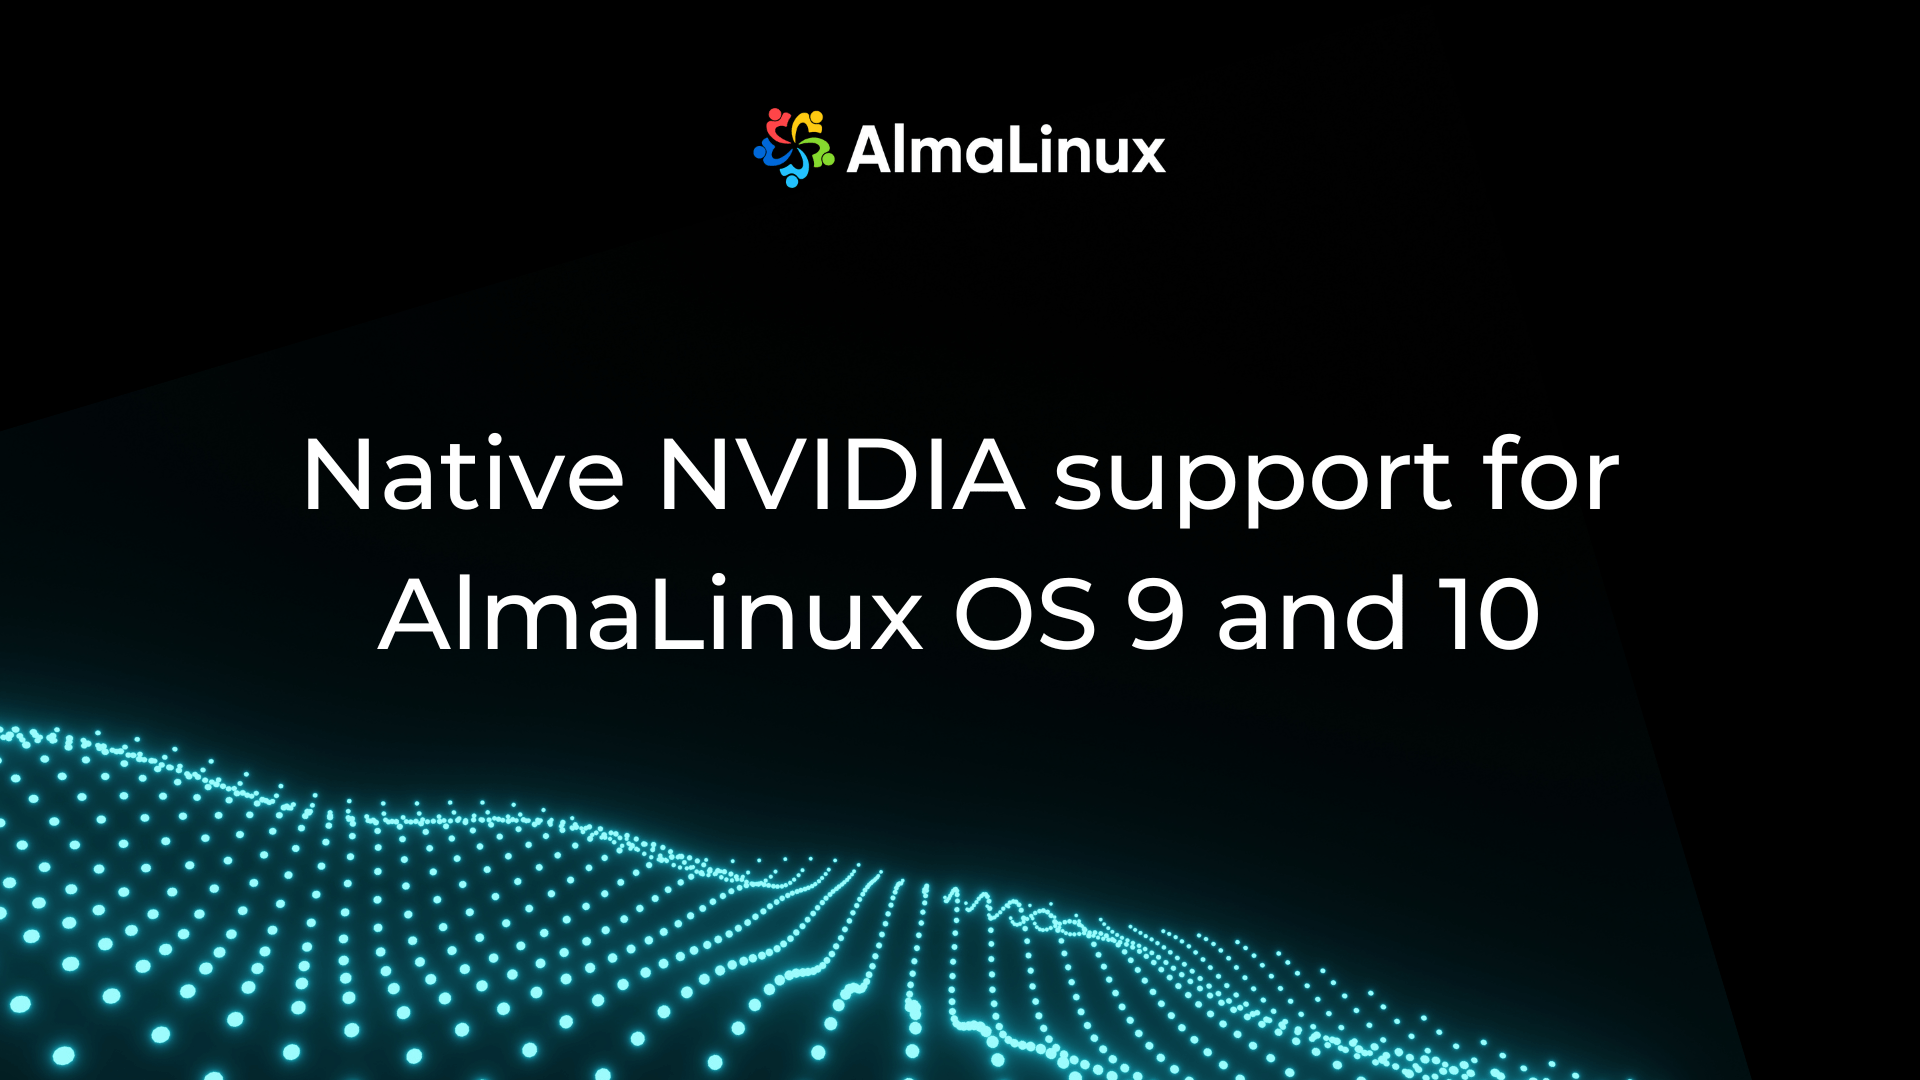
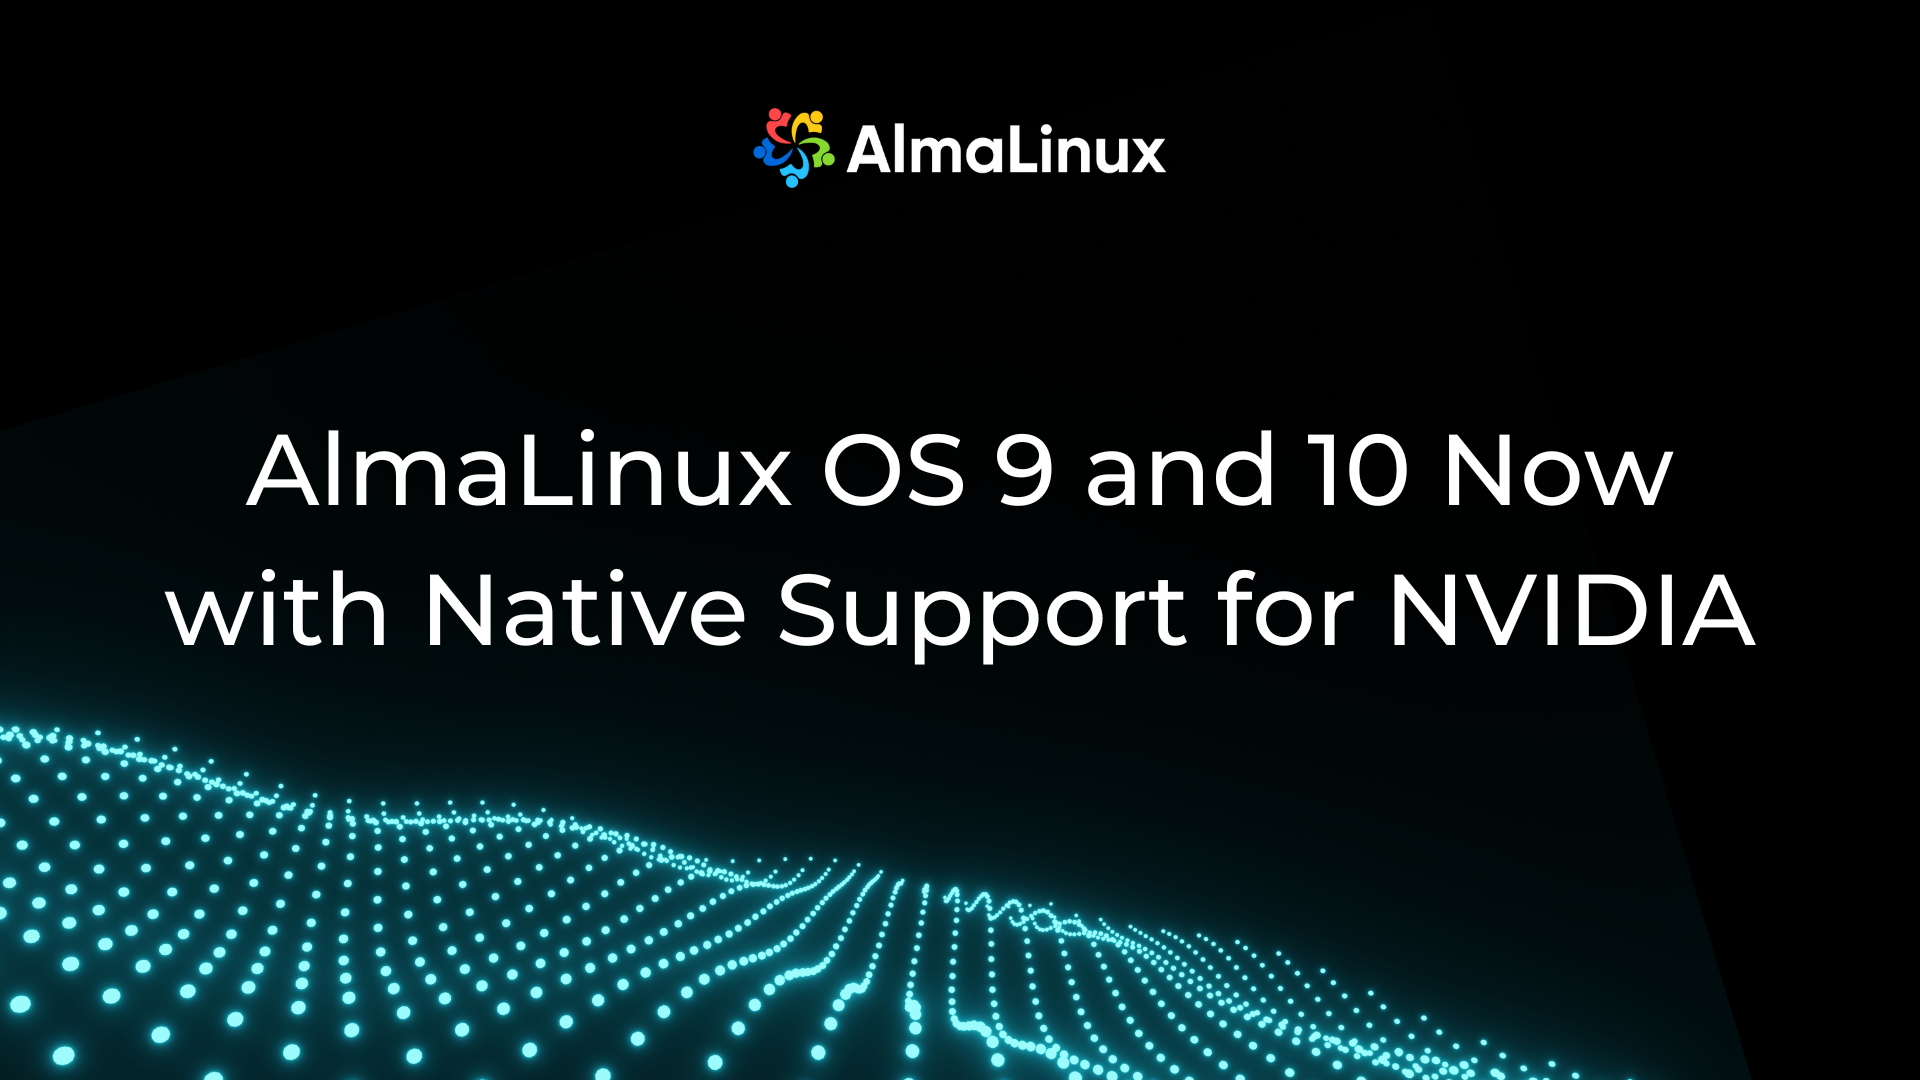
Update some phrasing

Changed region(s): [[0.0625, 0.5194, 0.9062, 0.6111], [0.125, 0.3972, 0.875, 0.4889]]

diff --git a/content/blog/2025-08-06-announcing-native-nvidia-suport.md b/content/blog/2025-08-06-announcing-native-nvidia-suport.md
@@ -1,5 +1,5 @@
 ---
-title: "Native NVIDIA support for AlmaLinux OS 9 and 10"
+title: "AlmaLinux OS 9 and 10 - Now with Native Support for NVIDIA"
 type: blog
 author: 
  name: "Neal Gompa and Jonathan Wright"
@@ -9,20 +9,18 @@ date: '2025-08-06'
 images:
   - /blog-images/2025/nvidia_support_announcement.png
 post:
-    title: "Native NVIDIA support for AlmaLinux OS 9 and 10"
+    title: "AlmaLinux OS 9 and 10 - Now with Native Support for NVIDIA"
     image: /blog-images/2025/nvidia_support_announcement.png
 
 ---
 
 At long last, users of NVIDIA graphics cards can enjoy a drastically improved user experience with AlmaLinux.
 
-## AlmaLinux's native NVIDIA support
+When AlmaLinux started just 5 years ago, this wouldn’t have been possible. However, with NVIDIA releasing an open source version of their graphics drivers, things changed. This open source version is slowly becoming the flagship driver, with new products being added exclusively to it.
 
-AlmaLinux OS 9 and 10 now ship with packages enabling native NVIDIA driver support, including CUDA and Secure Boot. Thanks to ALESCo, NVIDIA, and this approved [RFC](https://github.com/AlmaLinux/ALESCo/blob/master/rfcs/0004-build-and-ship-nvidia-drivers.md), AlmaLinux 9 and 10 solves that for NVIDIA users by shipping NVIDIA's open source graphics driver as a kernel module, along with a repository config for many of the common userspace and CUDA components. With AlmaLinux 9 and 10 and the new NVIDIA packages, a few `dnf` commands are all that stand between users and a fully-integrated NVIDIA experience.
+## AlmaLinux's NVIDIA support - including Secure Boot
 
-## NVIDIA's shift to open source 
-
-When AlmaLinux started just 5 years ago, this wouldn't have been possible. With NVIDIA's open source version of their graphics drivers things have changed.  This open source version is slowly becoming the flagship driver, with new products being added exclusively to it. With the help of some incredible people in the open source ecosystem and the AlmaLinux community, we were able to do something that has yet to be done in the EL ecosystem - ship Secure Boot signed, open source, NVIDIA kernel modules.
+AlmaLinux OS 9 and 10 now ship packages enabling native NVIDIA Open GPU driver support - with Secure Boot. Thanks to ALESCo, the [NVIDIA Open GPU Kernel module](https://github.com/NVIDIA/open-gpu-kernel-modules), and this approved [RFC](https://github.com/AlmaLinux/ALESCo/blob/master/rfcs/0004-build-and-ship-nvidia-drivers.md), AlmaLinux 9 and 10 solve many pain points of NVIDIA users by shipping NVIDIA's open source graphics driver as a kernel module, along with a repository config for many of the common userspace and CUDA components. With AlmaLinux 9 and 10 and the new NVIDIA packages, a few `dnf` commands are all that stand between users and a fully-integrated NVIDIA experience.
 
 ## How to take advantage of this update
 
